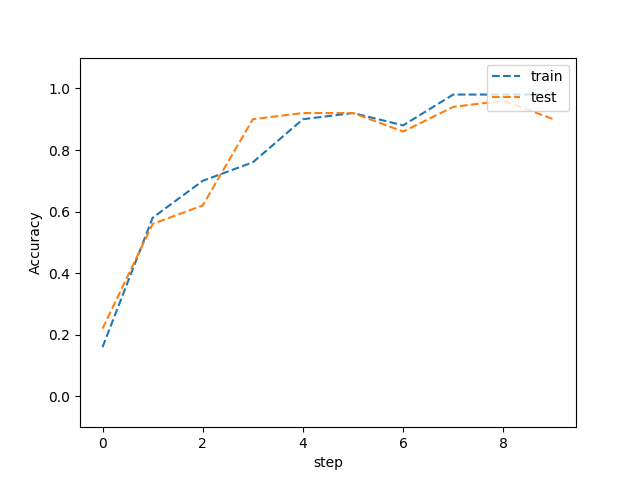
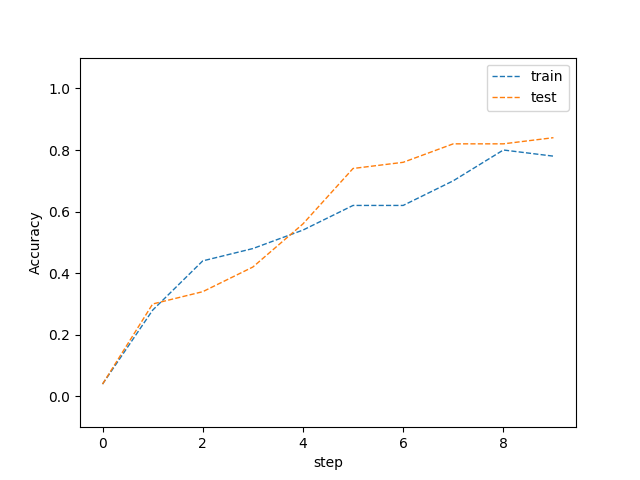
20171217

diff --git a/run.py b/run.py
@@ -62,7 +62,7 @@ test_acc_list = []
 test_loss_list = []
 
 print("\nTraining")
-for i in range(100):
+for i in range(1000):
     train_batch = mnist.train.next_batch(50)
     train_x = np.asarray(train_batch[0]).reshape((-1, 28, 28, 1))
     if i%100 == 0:
@@ -100,7 +100,7 @@ for digit in range(10):
 
             conv = sess.run(firstconv, feed_dict={x: train_x, y_:test_data[1]})
 
-            img = np.transpose(conv[0], (2, 0, 1))[digit]
+            img = np.transpose(conv[0], (2, 0, 1))[0]
             plt.clf()
             plt.imshow(img)
             plt.savefig(str(digit)+"_heat.png")
